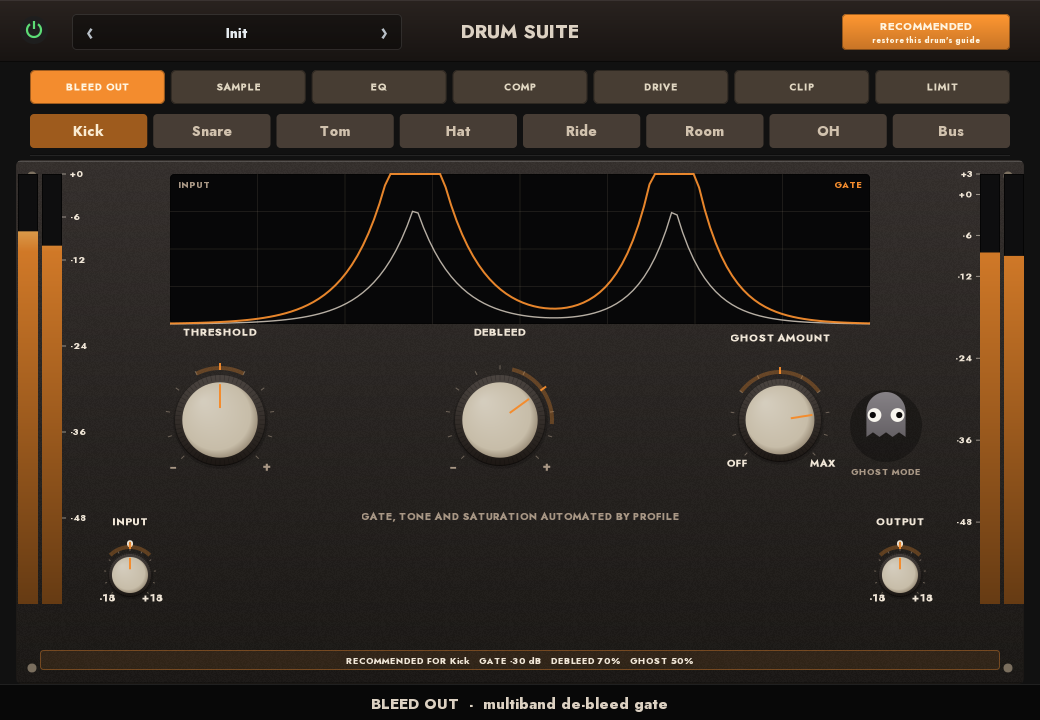
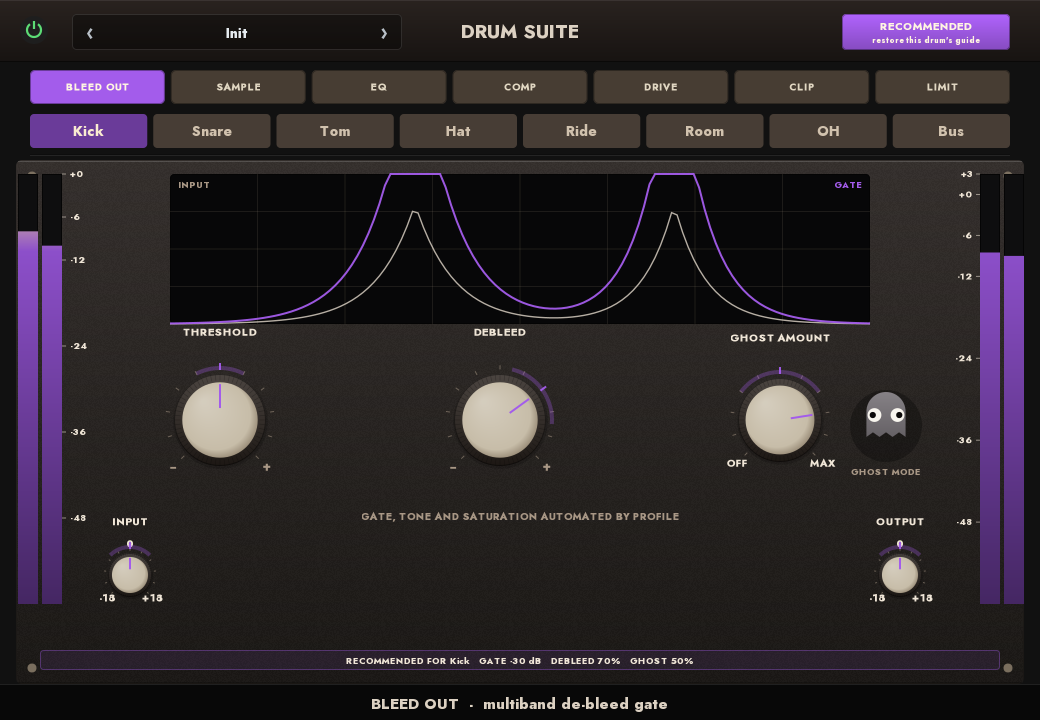
Drum Suite — purple Kick profile

diff --git a/src/ui/panel.cpp b/src/ui/panel.cpp
@@ -53,7 +53,7 @@ Skin skinFor(int drum) {
   // One chrome, with a per-drum accent.  The body stays in the Comp Suite
   // material; the accent changes the tabs, indicators and ghost.
   static const Rgb accents[8] = {
-      {0.95, 0.55, 0.18},  // Kick amber
+      {0.64, 0.36, 0.92},  // Kick purple
       {0.92, 0.22, 0.18},  // Snare red
       {0.95, 0.38, 0.12},  // Tom orange
       {0.95, 0.78, 0.15},  // Hat yellow
